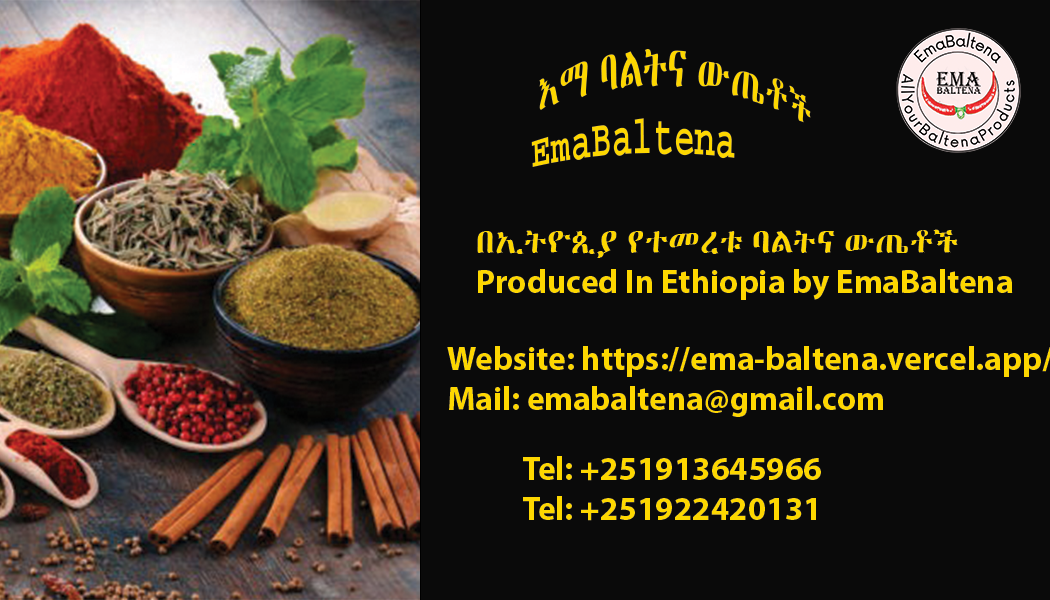
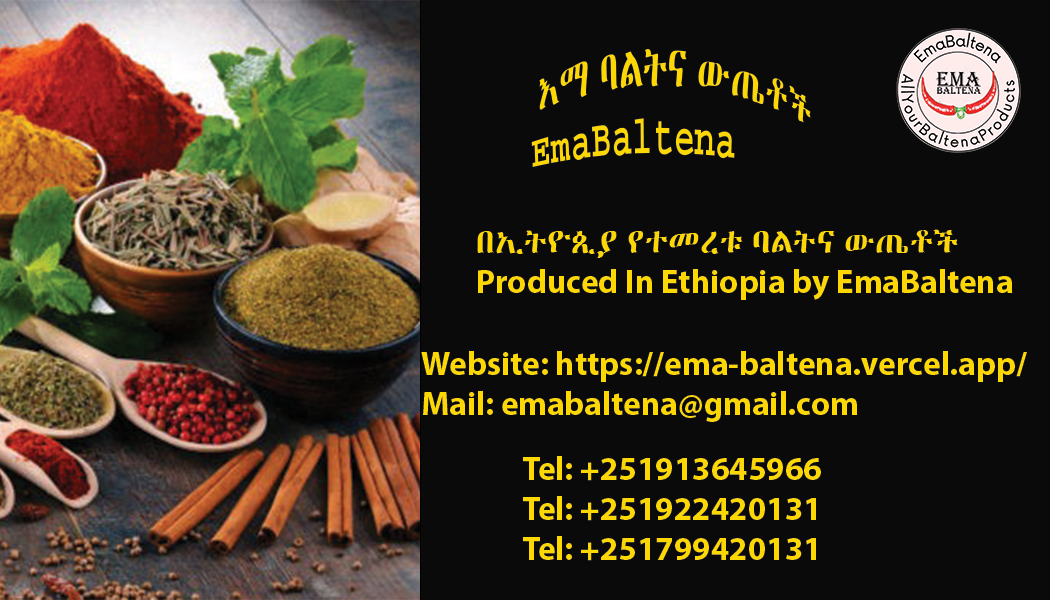
phone number and google location updated

Changed region(s): [[0.3962, 0.57, 1.0, 0.72], [0.4876, 0.9, 0.7924, 0.93]]

diff --git a/index.html b/index.html
@@ -147,7 +147,7 @@
           </div>
 
           <div class="col-lg-6 background order-lg-2" data-aos="zoom-in">
-            <img src="assets/img/shironeww.png" class="img-fluid" alt="">
+            <img src="assets/img/shironew.png" class="img-fluid" alt="">
           </div>
         </div>
 
@@ -1286,7 +1286,7 @@
 
           <div class="col-lg-6">
             <div class="map mb-4 mb-lg-0">
-              <iframe src="https://www.google.com/maps/embed?pb=!1m14!1m8!1m3!1d12097.433213460943!2d-74.0062269!3d40.7101282!3m2!1i1024!2i768!4f13.1!3m3!1m2!1s0x0%3A0xb89d1fe6bc499443!2sDowntown+Conference+Center!5e0!3m2!1smk!2sbg!4v1539943755621" frameborder="0" style="border:0; width: 100%; height: 340px;" allowfullscreen></iframe>
+              <iframe src="https://g.page/medhanialem-mall?share" frameborder="0" style="border:0; width: 100%; height: 340px;" allowfullscreen></iframe>
             </div>
           </div>
 
@@ -1307,6 +1307,10 @@
               <div class="col-md-3 info">
                 <i class="bi bi-phone"></i>
                 <p>+251922420131</p>
+              </div>
+              <div class="col-md-3 info">
+                <i class="bi bi-phone"></i>
+                <p>+251799420131</p>
               </div>
             </div>
 
